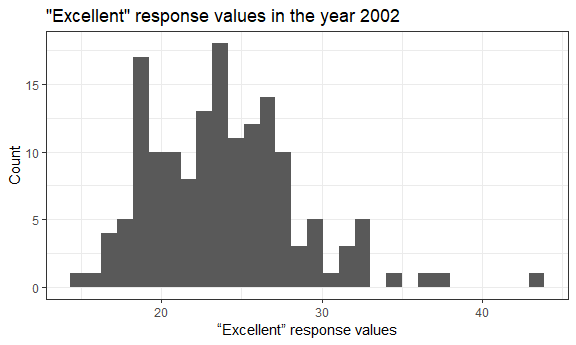
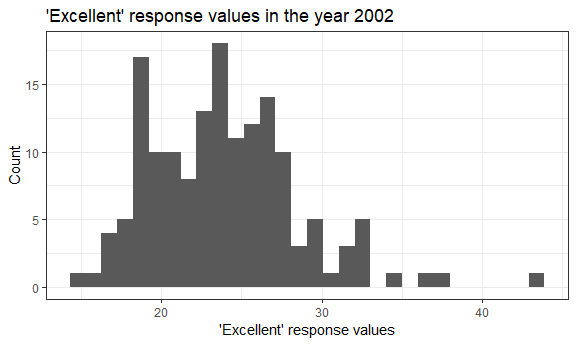
adjust some line breakers and remove warning messages.

Changed region(s): [[0.0625, 0.029, 0.7188, 0.087], [0.5, 0.9275, 0.6875, 0.9855], [0.375, 0.9275, 0.4062, 0.9565]]

diff --git a/p8105_hw2_st3117.md b/p8105_hw2_st3117.md
@@ -21,18 +21,19 @@ transit =
 
 The dataset "transit" is a 10 by 4270 table.
 It contains variables including line, station\_name, latitude, longitude, routes\_number, routes\_name, entry, vending, entrance\_type and ADA compliance.
-I started by importing the dataset and clean the variable names. Then, I used 'gather' function doing a wide to long transpose; used 'separate' function removing characters "route" from routes\_number; used 'filter' function removing “NA”s in routes\_name; used 'ifelse' function converting entry to a logical variable; seleted the 10 variables as requested; and arranged them by line and station\_name.
-</br> This is a tidy dataset.
+I started by importing the dataset and clean the variable names. Then, I used 'gather' function doing a wide to long transpose; used 'separate' function removing characters "route" from routes\_number; used 'filter' function removing “NA”s in routes\_name; used 'ifelse' function converting entry to a logical variable; seleted the 10 variables as requested; and arranged them by line and station\_name.</br>
+
+This is a tidy dataset.
 
 Problem 1\_2 Answer Questions about Transit
 -------------------------------------------
 
 -   How many distinct stations are there?
-    There are 465 distinct stations.
-    </br>
+    There are 465 distinct stations.</br>
+
 -   How many stations are ADA compliant?
-    84 stations are ADA compliant.
-    </br>
+    84 stations are ADA compliant.</br>
+
 -   What proportion of station entrances / exits without vending allow entrance?
     43.43% station entrances / exits without vending allow entrance.
 
@@ -40,8 +41,8 @@ Problem 1\_3 Reformat Data Transit and Answer Questions
 -------------------------------------------------------
 
 -   How many distinct stations serve the A train?
-    There are 60 distinct stations serve the A train.
-    </br>
+    There are 60 distinct stations serve the A train.</br>
+
 -   Of the stations that serve the A train, how many are ADA compliant?
     17 stations that serve the A train are ADA compliant.
 
@@ -119,8 +120,8 @@ Problem 2\_4 Answer Questions about Trash and Precipitation
 -----------------------------------------------------------
 
 -   what was the total precipitation in 2017?
-    The total precipitation in 2017 are 32.93 inches.
-    </br>
+    The total precipitation in 2017 are 32.93 inches.</br>
+
 -   What was the median number of sports balls in a dumpster in 2016?
     The median number of sports balls in a dumpster in 2016 are 26.
 
@@ -156,14 +157,14 @@ head(1)
     ## 1 NJ      146
 
 -   How many unique locations are included in the dataset?
-    There are 404 unique locations included in the dataset.
-    </br>
+    There are 404 unique locations included in the dataset.</br>
+
 -   Is every state represented?
-    Since there are 51 states and federal district in the dataset, all the states are included.
-    </br>
+    Since there are 51 states and federal district in the dataset, all the states are included.</br>
+
 -   What state is observed the most?
-    New Jersey is observed the most with 146 times.
-    </br>
+    New Jersey is observed the most with 146 times.</br>
+
 -   In 2002, what is the median of the “Excellent” response value?
     The median of the “Excellent” response value in 2002 are 23.6.
 
@@ -175,14 +176,10 @@ filter(brfss, year == 2002) %>%
   ggplot(aes(x = excellent)) + 
   geom_histogram() +
   labs(
-    title = '"Excellent" response values in the year 2002',
-    x = "“Excellent” response values",
+    title = "'Excellent' response values in the year 2002",
+    x = "'Excellent' response values",
     y = "Count")
 ```
-
-    ## `stat_bin()` using `bins = 30`. Pick better value with `binwidth`.
-
-    ## Warning: Removed 2 rows containing non-finite values (stat_bin).
 
 <img src="p8105_hw2_st3117_files/figure-markdown_github/Problem 3_3-1.png" width="90%" />
 
@@ -199,7 +196,7 @@ ggplot(brfss_ny, aes(x = year, y = excellent, color = county)) +
   labs(
     title = "Proportion of 'Excellent' response values in New York County and Queens County each year",
     x = "Year",
-    y = 'Proportion of "Excellent" response')
+    y = "Proportion of 'Excellent' response")
 ```
 
 <img src="p8105_hw2_st3117_files/figure-markdown_github/Problem 3_4-1.png" width="90%" />
